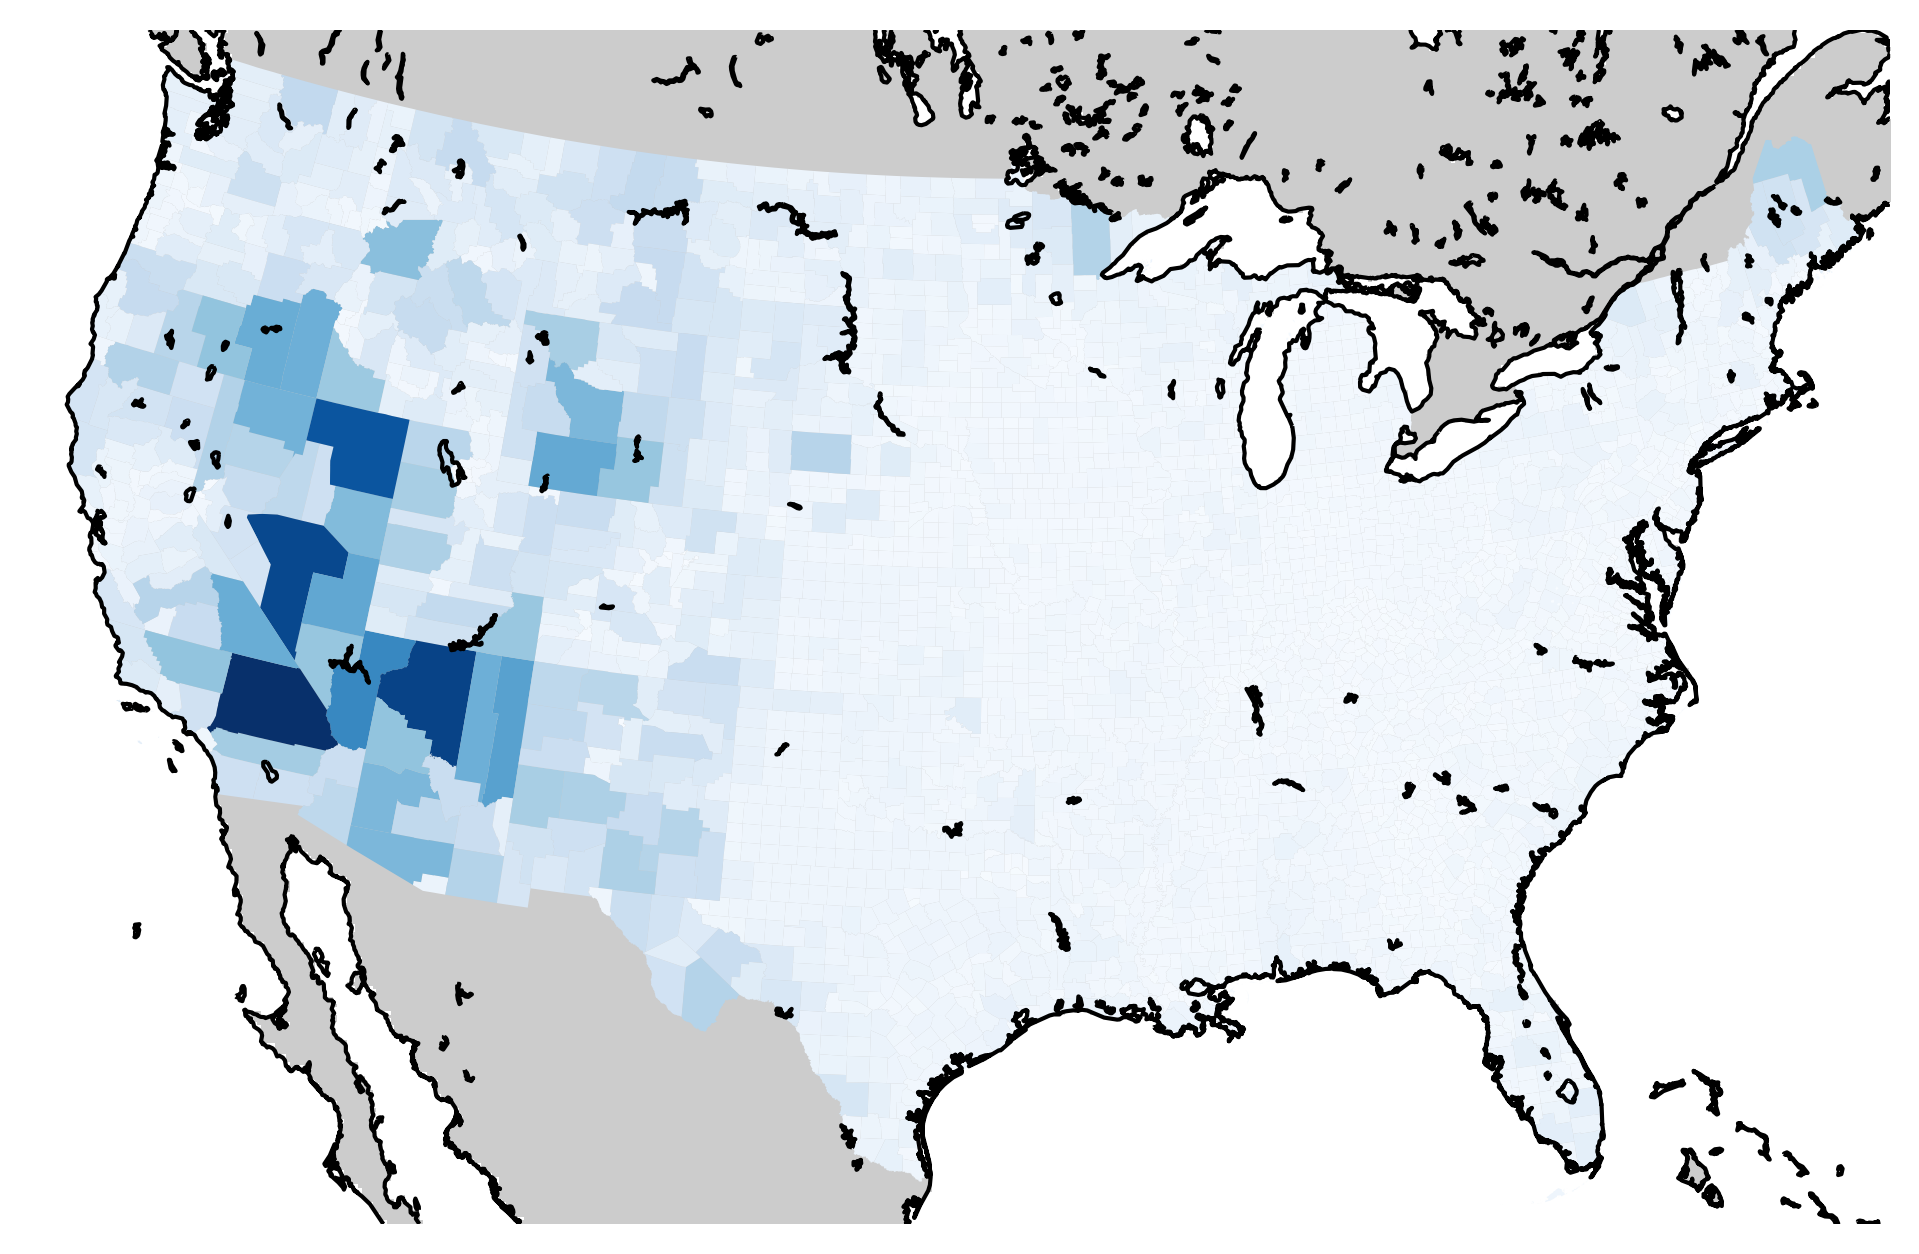
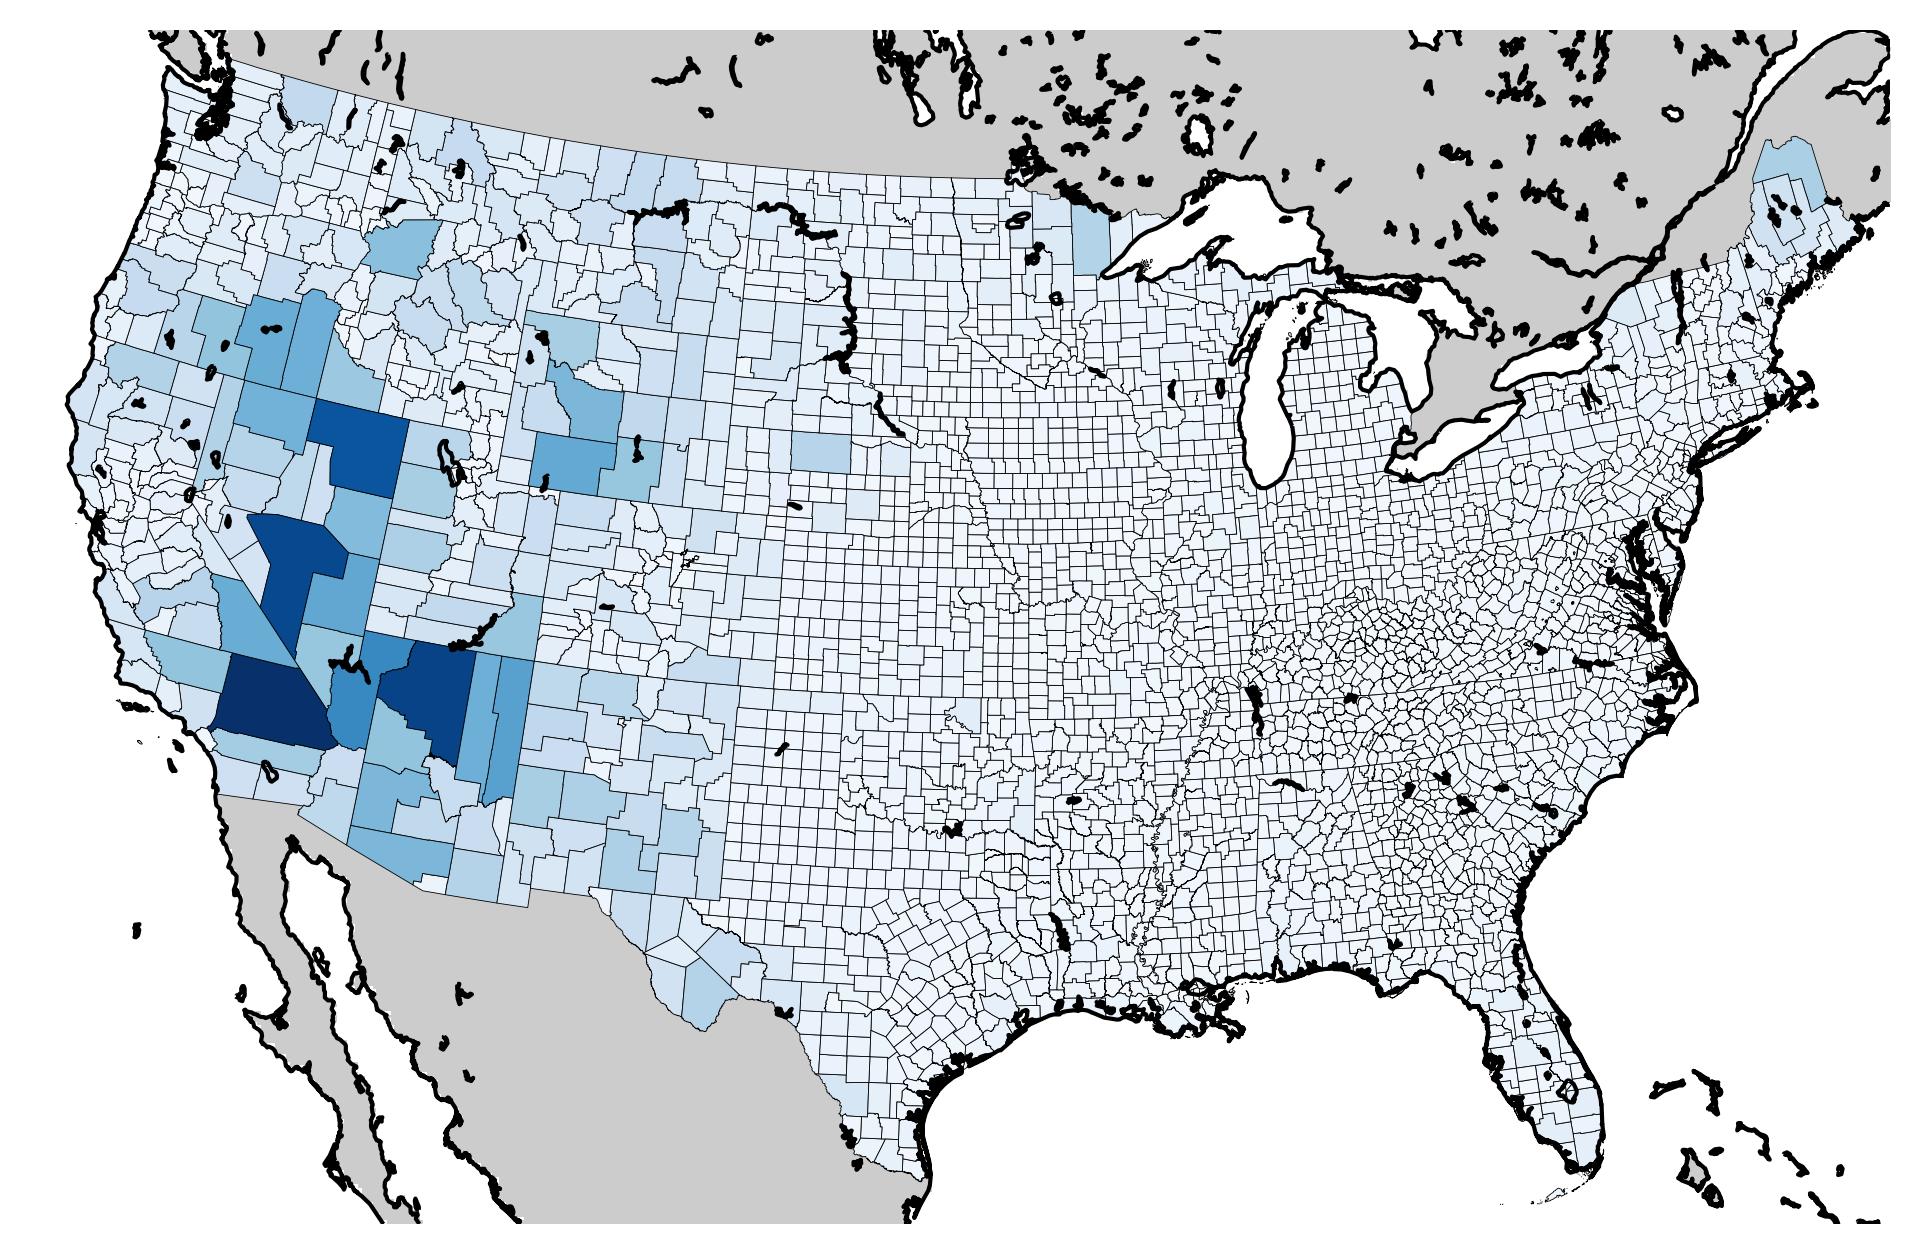
0. Added SimpleFigures library and example

diff --git a/simplemaps/SimpleFigures.py b/simplemaps/SimpleFigures.py
@@ -1,0 +1,293 @@
+#! /usr/bin/env python
+# -*- coding: utf-8 -*-
+# vim:fenc=utf-8
+#
+# Copyright © 2017 Caleb Robinson <calebrob6@gmail.com>
+#
+# Distributed under terms of the MIT license.
+
+import os
+import time
+import math
+
+import matplotlib
+import matplotlib.pyplot as plt
+import matplotlib.collections
+import matplotlib.colors
+
+import fiona
+import shapely
+import shapely.geometry
+import shapely.ops
+
+import pandas as pd
+import numpy as np
+
+from BasemapUtils import BasemapWrapper, PolygonPatchesWrapper, getBounds, getShapefileColumn, DEFAULT_CACHE_LOCATION
+
+def getUSMercatorBounds():
+    lats = (24.39, 49.38) #southern point, northern point
+    lons = (-124.85, -66.89) #western point, eastern point
+    return lats, lons
+
+def showCmap(cmap):
+    fig,ax = plt.subplots(1,1,figsize=(5,3))
+
+    norm = matplotlib.colors.Normalize(vmin=0, vmax=2)
+    scalarMap = matplotlib.cm.ScalarMappable(norm=norm, cmap=cmap)
+
+    cbaxes = fig.add_axes([0, -0.1, 1.0, 0.1], frameon=False)
+    colorbar = matplotlib.colorbar.ColorbarBase(
+        cbaxes,
+        cmap=cmap,
+        norm=norm,
+        orientation='horizontal'
+    )
+    colorbar.outline.set_visible(True)
+    colorbar.outline.set_linewidth(0.5)
+
+    colorbar.set_ticks([0,1,2])
+    colorbar.set_ticklabels(["Small","Medium","Large"])
+    
+    colorbar.ax.tick_params(labelsize=18,labelcolor='k',direction='inout',width=3,length=6)
+
+    color = scalarMap.to_rgba(1)
+
+    img = np.zeros((10,10,3), dtype=float)
+    img[:,:,0] += color[0]
+    img[:,:,1] += color[1]
+    img[:,:,2] += color[2]
+    ax.imshow(img)
+
+    plt.show()
+    plt.close()
+
+def discretizeCmap(n, base="Reds"):
+    '''Creates a cmap with n colors sampled from the given base cmap
+    '''
+    cmap = matplotlib.cm.get_cmap(base, n)
+    cmaplist = [cmap(i) for i in range(cmap.N)]
+
+    # We can customize the colors of the discrete cmap
+    #cmaplist[0] = (0.0, 0.0, 1.0, 1.0)
+    #cmaplist[-1] = (1.0, 1.0, 1.0, 1.0)
+
+    cmap = cmap.from_list('Custom cmap', cmaplist, cmap.N)
+    return cmap
+
+def getLogTickLabels(minVal, maxVal, positive=True):
+    ticks = []
+    tickLabels = []
+
+    if minVal == 0:
+        bottomLog = 0
+        ticks.append(0)
+        tickLabels.append("$0$")
+    else:
+        bottomLog = int(math.floor(np.log10(minVal)))
+    topLog = int(math.ceil(np.log10(maxVal)))+1
+
+    for i in range(bottomLog,topLog):
+        if positive:
+            ticks.append(10**i)
+            tickLabels.append("$10^{%d}$" % (i))
+        else:
+            ticks.append(-(10**i))
+            tickLabels.append("$-10^{%d}$" % (i))
+
+    return ticks,tickLabels
+
+def getLinearTickLabels(minVal, maxVal, positive=True, numTicks=5):
+    ticks = []
+    tickLabels = []
+
+    #if minVal<0 and positive:
+    #    minVal = 1
+
+    samples, step = np.linspace(minVal, maxVal, num=numTicks, retstep=True)
+
+    for sample in samples:
+        if positive:
+            ticks.append(sample)
+            tickLabels.append("$%g$" % (sample))
+        else:
+            ticks.append(-sample)
+            tickLabels.append("$-%g$" % (sample))
+
+    return ticks,tickLabels
+
+def singleColorbar(cbaxes,dataMin,dataMax,cmapName,logScale=False):
+    tTicks,tTicklabels = None, None
+
+    #----------------------------
+    # Setup log scale, single color bar
+    #----------------------------
+    if logScale: 
+        tTicks,tTicklabels = getLogTickLabels(dataMin, dataMax, positive=True)
+        norm = matplotlib.colors.SymLogNorm(1.0, linscale=1.0, vmin=tTicks[0], vmax=tTicks[-1])
+        norm._transform_vmin_vmax()
+    #----------------------------
+    # Setup linear scale, single color bar
+    #----------------------------  
+    else:
+        tTicks,tTicklabels = getLinearTickLabels(dataMin, dataMax, positive=True)
+        norm = matplotlib.colors.Normalize(vmin=dataMin, vmax=dataMax)
+
+    cmap = matplotlib.cm.get_cmap(cmapName)
+    mappable = matplotlib.cm.ScalarMappable(norm=norm, cmap=cmap)
+    
+    #----------------------------
+    # Draw colorbar
+    #----------------------------
+    colorbar = matplotlib.colorbar.ColorbarBase(
+        cbaxes,
+        cmap=cmap,
+        norm=norm,
+        orientation='horizontal'
+    )
+    
+    colorbar.outline.set_visible(True)
+    colorbar.outline.set_linewidth(0.5)
+    
+    colorbar.set_ticks(tTicks)
+    colorbar.set_ticklabels(tTicklabels)
+    colorbar.ax.tick_params(labelsize=18,labelcolor='k',direction='inout',width=3,length=6)
+
+    return mappable
+
+def simpleMap(shapefileFn, shapefileKey, data, cmap="Blues", customCbar=(None,None), size=(20,10), logScale=False, bounds=None, title=None, outputFn=None, cacheDir=None):
+    '''
+
+    Inputs:
+    - shapefileFn: 
+    - shapefileKey: 
+    - data: 
+    - bounds: Bounding box for the map, takes the form (south, north, west, east), i.e. (minLat, maxLat, minLon, maxLon). Defaults to the bounds from the shapefile.
+    - title: Title of the map. Defaults to no title.
+    - outputFn: If `None` then the figure will be displayed with plt.show(), else the figure will be saved to this filename.
+    '''
+
+    if cacheDir is None:
+        cacheDir = DEFAULT_CACHE_LOCATION
+
+    #--------------------------------------------------------------------------------------------------
+    # Setup Figure
+    #--------------------------------------------------------------------------------------------------
+    fig = plt.figure()
+    ax = fig.add_subplot(1, 1, 1, axisbg='#ffffff', frame_on=False)
+
+    lats, lons = None, None
+    if bounds is None:
+        lats, lons = getBounds(shapefileFn)
+    else:
+        lats = (bounds[0],bounds[1])
+        lons = (bounds[2],bounds[3])
+
+    basemapArgs = {
+        "projection":"merc",
+        "llcrnrlat":lats[0],
+        "urcrnrlat":lats[1],
+        "llcrnrlon":lons[0],
+        "urcrnrlon":lons[1],
+        "resolution":"i",
+        "fix_aspect":True,
+        "suppress_ticks":True,
+        #-------------------------------
+        "cacheDir":cacheDir,
+        "verbose":True
+    }
+
+    m = BasemapWrapper(**basemapArgs)
+
+    #--------------------------------------------------------------------------------------------------
+    # Load polygons with cache aware technique
+    #--------------------------------------------------------------------------------------------------
+    patches, keys, bounds = PolygonPatchesWrapper(
+        m,
+        shapefileFn, shapefileKey,
+        filterList=None,
+        basemapArgs=basemapArgs,
+        cacheDir=cacheDir, 
+        verbose=True
+    )
+
+    for patch in patches:
+        patch.set_linewidth(0.5)
+
+    p = matplotlib.collections.PatchCollection(patches, match_original=True)
+
+    #--------------------------------------------------------------------------------------------------
+    # Deal with the colorbar
+    #--------------------------------------------------------------------------------------------------
+    dataMin = min(data.values())
+    dataMax = max(data.values())
+    if customCbar is not None:
+        if customCbar[0] is not None:
+            dataMin = customCbar[0]
+
+        if customCbar[1] is not None:
+            dataMax = customCbar[1]
+    
+    cbaxes = fig.add_axes([0.2, 0.05, 0.6, 0.05])
+    mappable = singleColorbar(cbaxes,dataMin,dataMax,cmapName=cmap,logScale=logScale)
+
+    #--------------------------------------------------------------------------------------------------
+    # Apply the colors
+    #--------------------------------------------------------------------------------------------------   
+    faceColorValues = []
+    for key in keys:
+        color = mappable.to_rgba(data[key])
+        faceColorValues.append(color)
+    
+    p.set_facecolor(faceColorValues)
+    ax.add_collection(p)
+
+    #--------------------------------------------------------------------------------------------------
+    # Misc Options
+    #--------------------------------------------------------------------------------------------------
+    padding = 2
+    (xMin,xMax), (yMin, yMax) = bounds
+    ax.set_xlim([xMin-padding,xMax+padding])
+    ax.set_ylim([yMin-padding,yMax+padding])
+
+    ax.tick_params(axis='both', which='both', labelsize=20)
+    ax.tick_params(
+        bottom=False, top=False, left=False, right=False, 
+        labelbottom=False, labeltop=False, labelleft=False, labelright=False
+    )
+    ax.grid(b=False)
+
+    m.drawmapboundary(
+        color='k',
+        linewidth=0.0,
+        fill_color='#ffffff',
+        zorder=None,
+        ax=ax
+    )
+
+    if title is not None:
+        ax.set_title(title,fontsize=26,color='k')
+    
+    fig.set_size_inches(size[0], size[1])
+    
+    if outputFn is not None:
+        plt.savefig(outputFn, dpi=150, alpha=True, bbox_inches='tight')
+    else:
+        plt.show()
+    
+    plt.close()
+
+
+if __name__ == "__main__":
+    shapefileFn = "examples/cb_2015_us_county_500k_clipped/cb_2015_us_county_500k_clipped.shp"
+    shapefileKey = "GEOID"
+
+    startTime = float(time.time())
+    data = getShapefileColumn(shapefileFn, dataHeader="ALAND", primaryKeyHeader=shapefileKey)
+    print "Finished loading data in %0.4f seconds" % (time.time()-startTime)
+
+    startTime = float(time.time())
+    simpleMap(shapefileFn, shapefileKey, data, outputFn="test.png", title="Land Area of Counties in the US", logScale=False)
+    print "Finished drawing map in %0.4f seconds" % (time.time()-startTime)
+
+    

diff --git a/demoSimpleFigures.py b/demoSimpleFigures.py
@@ -1,0 +1,45 @@
+#! /usr/bin/env python
+# -*- coding: utf-8 -*-
+# vim:fenc=utf-8
+#
+# Copyright © 2017 Caleb Robinson <calebrob6@gmail.com>
+#
+# Distributed under terms of the MIT license.
+
+import time
+
+#---------------------------------------------------------------------------------------------------
+def main():
+    print 'Starting SimpleFigures demo'
+    startTime = float(time.time())
+
+    from simplemaps.SimpleFigures import simpleMap
+    from simplemaps.BasemapUtils import getShapefileColumn
+
+    CACHE_DIR = "tmpCache/"
+
+    shapefileFn = "examples/cb_2015_us_county_500k_clipped/cb_2015_us_county_500k_clipped.shp"
+    shapefileKey = "GEOID"
+
+    loadTime = float(time.time())
+    data = getShapefileColumn(shapefileFn, dataHeader="ALAND", primaryKeyHeader=shapefileKey)
+    print "Finished loading data in %0.4f seconds" % (time.time()-loadTime)
+
+    #-----------------------------------------------------------------------------------
+    loadTime = float(time.time())
+    simpleMap(
+        shapefileFn,
+        shapefileKey,
+        data,
+        outputFn="examples/demoSimpleFigure1.png",
+        title="Land Area of Counties in the US",
+        logScale=False,
+        cacheDir=CACHE_DIR
+    )
+    print "Finished drawing map1 in %0.4f seconds" % (time.time()-loadTime)
+
+    
+    print 'Finished in %0.4f seconds' % (time.time() - startTime)
+
+if __name__ == '__main__':
+    main()

diff --git a/demoExtractingData.py b/demoExtractingData.py
@@ -63,7 +63,7 @@ def main():
     (xMin,xMax), (yMin, yMax) = bounds
 
     for patch in patches:
-        patch.set_linewidth(0.0)
+        patch.set_linewidth(0.2)
 
     p = matplotlib.collections.PatchCollection(patches, match_original=True)
 
@@ -81,6 +81,7 @@ def main():
     dataMin = min(data.values())
     dataMax = max(data.values())
 
+    # Setup our color mapping tools
     norm = matplotlib.colors.Normalize(vmin=0, vmax=dataMax)
     cmap = matplotlib.cm.Blues
     scalarMappable = matplotlib.cm.ScalarMappable(norm=norm, cmap=cmap)
